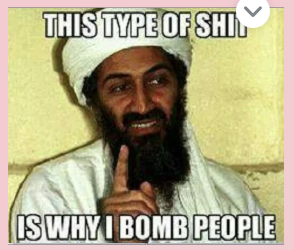
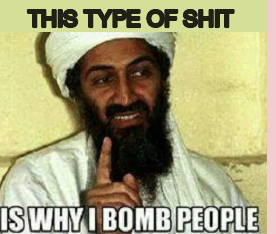
Clean screenshot UI from sticker assets

diff --git a/app-v9.js b/app-v9.js
@@ -88,12 +88,7 @@ const ethanResult = {
 
 const allStickers = [...reactionStickers, ethanResult];
 const guaranteedReactionSrc = "assets/bin-laden.png";
-const screenshotCropSrcs = new Set([
-  "assets/kermit-guide.png",
-  "assets/bin-laden.png",
-  "assets/need-brain.png",
-  "assets/nokia.png"
-]);
+const screenshotCropSrcs = new Set();
 
 const chairmanResult = {
   src:"assets/e100.gif",
